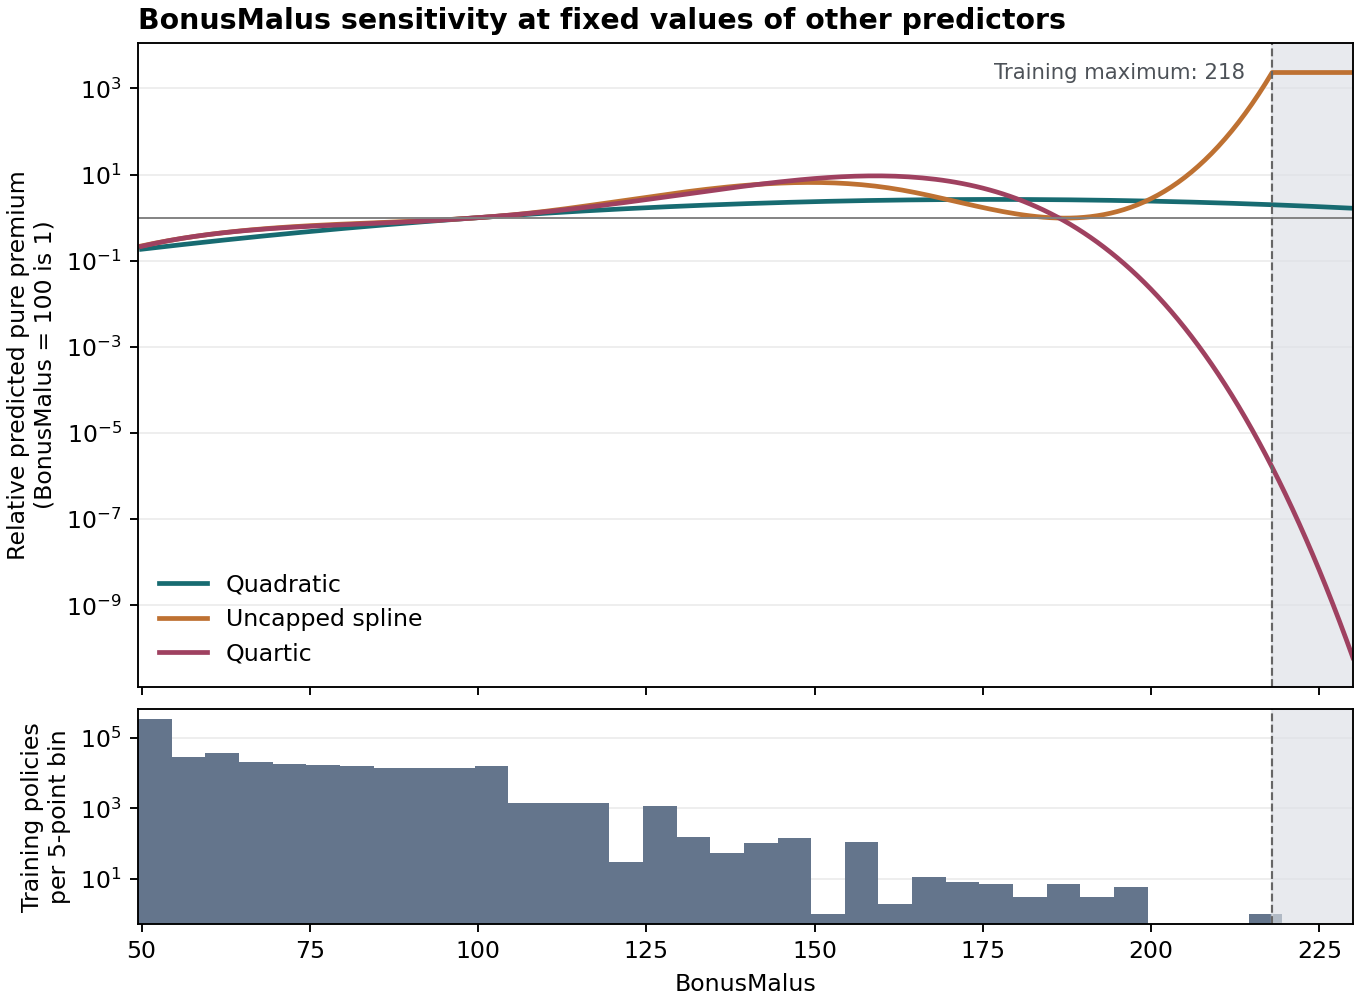
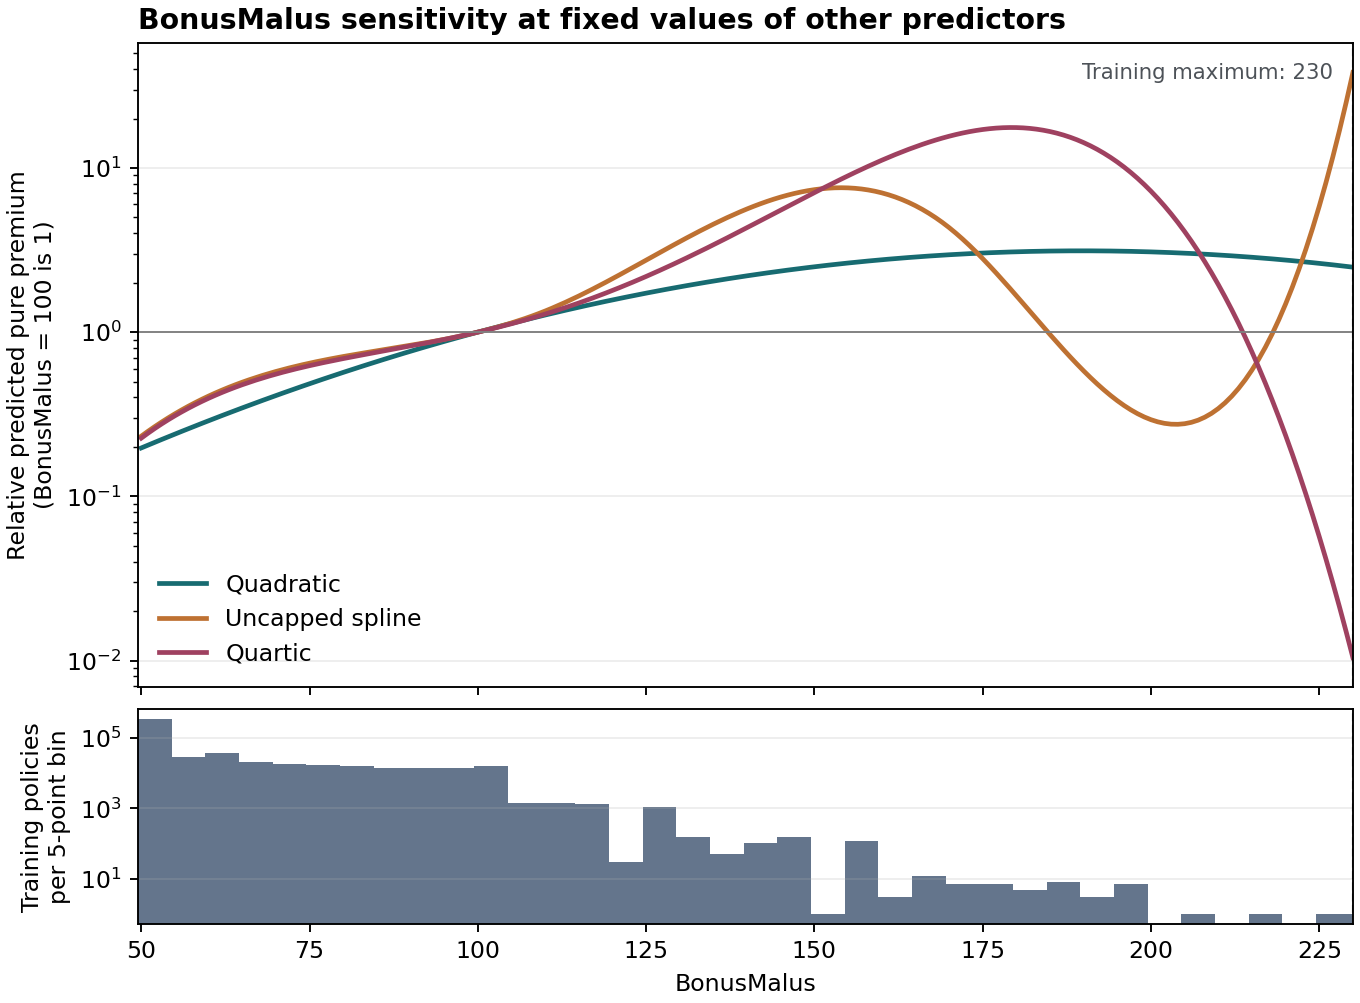
Refit and compare Part D models on the merged policy split

diff --git a/analyses/parametric_glm.py b/analyses/parametric_glm.py
@@ -16,6 +16,7 @@ from sklearn.preprocessing import (
     StandardScaler,
 )
 
+from ps3.data import create_sample_column, load_transform
 from ps3.preprocessing import Winsorizer
 
 
@@ -147,6 +148,15 @@ def compare_variants(train):
     return scores.loc[0, "variant"]
 
 
+def prepare_model_data(frame, id_columns="IDpol", training_fraction=0.8):
+    """Apply the shared splitter and reject a cache with obsolete assignments."""
+    prepared = create_sample_column(frame, id_columns, training_fraction)
+    if "sample" in frame and not np.array_equal(frame["sample"], prepared["sample"]):
+        raise ValueError("Supplied sample labels differ from the current shared split")
+    prepared["PurePremium"] = prepared["ClaimAmountCut"] / prepared["Exposure"]
+    return prepared
+
+
 def main():
     parser = argparse.ArgumentParser(description=__doc__)
     models = parser.add_mutually_exclusive_group()
@@ -177,18 +187,13 @@ def main():
     if args.write_predictions and not args.handoff:
         parser.error("--write-predictions requires --handoff")
 
+    input_frame = pd.read_parquet(args.data) if args.data else load_transform()
     if args.handoff:
         from analyses.part_c import SPLIT, prepare_data, write_model_metrics
-        from ps3.data import create_sample_column
 
-        input_frame = pd.read_parquet(args.data) if args.data else None
-        frame = prepare_data(input_frame)
-        if "sample" not in frame:
-            frame = create_sample_column(
-                frame,
-                id_columns=SPLIT["id_columns"],
-                training_frac=SPLIT["training_fraction"],
-            )
+        frame = prepare_model_data(
+            prepare_data(input_frame), SPLIT["id_columns"], SPLIT["training_fraction"]
+        )
         metrics, _, test_predictions = run_parametric_glm(frame)
         metrics_path = write_model_metrics(metrics, args.results_dir)
         print(metrics_path)
@@ -198,13 +203,11 @@ def main():
             print(prediction_path)
         return
 
-    trial_data = args.data or "data/ps3_d_trial.parquet"
+    frame = prepare_model_data(input_frame)
     if args.cv_only:
-        train = pd.read_parquet(trial_data, filters=[("sample", "==", "train")])
-        compare_variants(train)
+        compare_variants(frame.loc[frame["sample"].eq("train")])
         return
 
-    frame = pd.read_parquet(trial_data)
     train = frame.loc[frame["sample"].eq("train")]
     test = frame.loc[frame["sample"].eq("test")]
     variant = compare_variants(train) if args.compare else args.variant

diff --git a/results/parametric_glm_notes.md b/results/parametric_glm_notes.md
@@ -2,25 +2,26 @@
 
 The quadratic GLM uses linear and squared terms for both `BonusMalus` and `VehPower`. It models pure premium (`ClaimAmountCut / Exposure`) with Tweedie power 1.5, an intercept, and exposure weights. In C's benchmark, `BonusMalus` is linear and `VehPower` is categorical.
 
-## Comparison on the current shared split
+## Comparison on the normalized ID split
 
-These provisional results use A's split from PR #11 (`83f6f88`) and C's shared evaluation from PR #13 (`34bd343`), with 542,605 training policies and 135,408 test policies. All scores are exposure-weighted mean Tweedie deviances, for which lower is better.
+All models use the normalized `IDpol` split from PR #10 (merged as `c5b3b6b`), with 542,286 training policies and 135,727 test policies. Scores are exposure-weighted mean Tweedie deviances, for which lower is better.
 
 | Specification | Train | Test |
 |---|---:|---:|
-| C's Tweedie benchmark | 73.5260 | 74.7351 |
-| **Quadratic for both variables** | **73.5302** | **74.5342** |
-| Uncapped splines for both variables | 73.3440 | 74.5819 |
-| Uncapped spline for `BonusMalus`, quadratic for `VehPower` | 73.3993 | 74.4882 |
-| Fourth-degree polynomials for both variables | 73.3279 | 245.1259 |
+| C's Tweedie benchmark | 73.4855 | 74.8970 |
+| **Quadratic for both variables** | **73.4660** | **74.8145** |
+| Uncapped splines for both variables | 73.3371 | 74.6672 |
+| Uncapped spline for `BonusMalus`, quadratic for `VehPower` | 73.3561 | 74.7278 |
+| Fourth-degree polynomials for both variables | 73.3414 | 74.6549 |
+| Capped `BonusMalus` spline (exploratory) | 73.1470 | 74.7218 |
 
-We selected the quadratic specification. It reduced test deviance by 0.27% relative to C's benchmark. The spline–quadratic model scored 0.046 points lower on the test set, but it predicted about 624,409 in combined claim amounts for two policies above the maximum training `BonusMalus`, where the observed total was 1,128.12. The quadratic model predicted 622.99 for those two policies.
+The quadratic handoff reduces test deviance by 0.11% relative to C's benchmark. Among the nine Part D variants, the uncapped spline improves on the quadratic in both training-only CV (74.0698 versus 74.1664) and observed test deviance. The quartic has the lowest test deviance of the variants, but it has the highest mean CV deviance (74.4156). We retain the agreed quadratic model for the handoff and report the alternatives as exploratory results.
 
 ## Checking overfitting
 
-Compare each model's train and test deviance using a common split, then inspect the fitted curves alongside training counts. The quartic model fit the training data better than the quadratic model and had slightly better mean three-fold validation deviance. Its fitted premium fell to nearly zero in the sparse upper tail, where the training set contained only one policy with `BonusMalus` of 200 or higher. Two test policies lay above the training maximum. Their contribution was 170.41 points of test deviance, almost entirely from the policy with a positive claim and a prediction near zero. The [sensitivity plot](parametric_glm_bonus_malus.png) holds the other predictors fixed.
+Compare train and test deviance, assess variation across the validation folds, and inspect the fitted curves alongside training counts. On the earlier split the quartic's test deviance was 245.1259, driven by a near-zero prediction for a positive claim above the training maximum. This split has four training policies with `BonusMalus` of at least 200 and no test policy above the training maximum of 230. The new test score therefore measures a different tail and does not settle the extrapolation concern. The [sensitivity plot](parametric_glm_bonus_malus.png) holds the other predictors fixed.
 
-As an exploratory check prompted by the test-set diagnostics, we capped `BonusMalus` at its training 99th percentile (106) before fitting the spline. Train and test deviance were 73.2155 and 74.3988. An independent sample would be needed to validate the improvement.
+The capped spline uses the training 99th percentile (106) and has the best training-only CV mean (73.9228) among the D variants. The earlier test-tail findings prompted the cap and influenced the handoff choice. Repartitioning this same dataset does not establish independent evidence for choosing a different specification.
 
 ## Reproduce and integrate
 
@@ -32,4 +33,4 @@ python -m analyses.parametric_glm --handoff
 
 The command loads the course data and writes `results/parametric_glm_metrics.json`. For C's combined comparison, `run_parametric_glm(frame)` accepts the prepared shared frame and returns `(metrics, train_predictions, test_predictions)`. Both prediction series are indexed by `IDpol`.
 
-For the file-based comparison, run `python -m analyses.parametric_glm --handoff --write-predictions --results-dir data/part_d_results`. This writes the metrics and `parametric_glm_predictions.csv` with columns `IDpol` and `PurePremiumPredicted`. Keep the per-policy file local. Rerun on the agreed team split before publishing the combined results.
+For the file-based comparison, run `python -m analyses.parametric_glm --handoff --write-predictions --results-dir data/part_d_results`. This writes the metrics and `parametric_glm_predictions.csv` with columns `IDpol` and `PurePremiumPredicted`. Keep the per-policy file local. A prepared Parquet input supplied via `--data` is checked against the current shared splitter before fitting.
